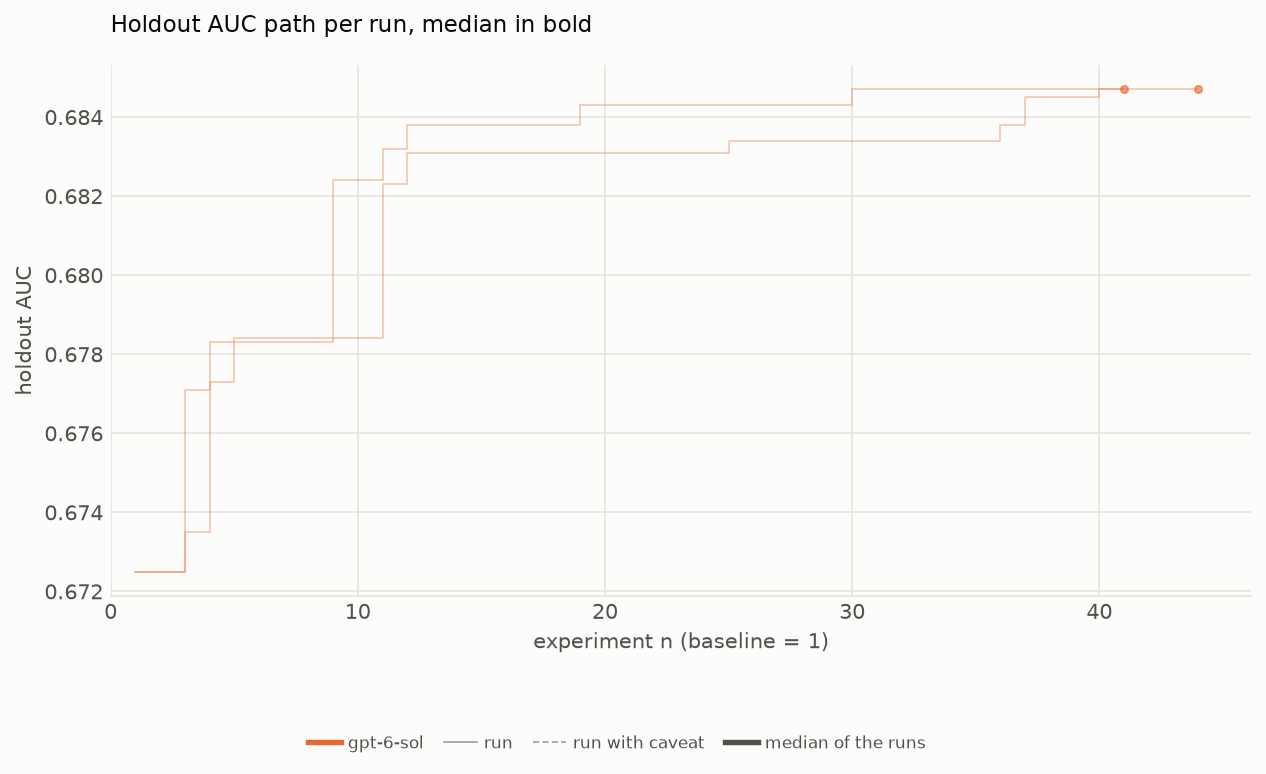
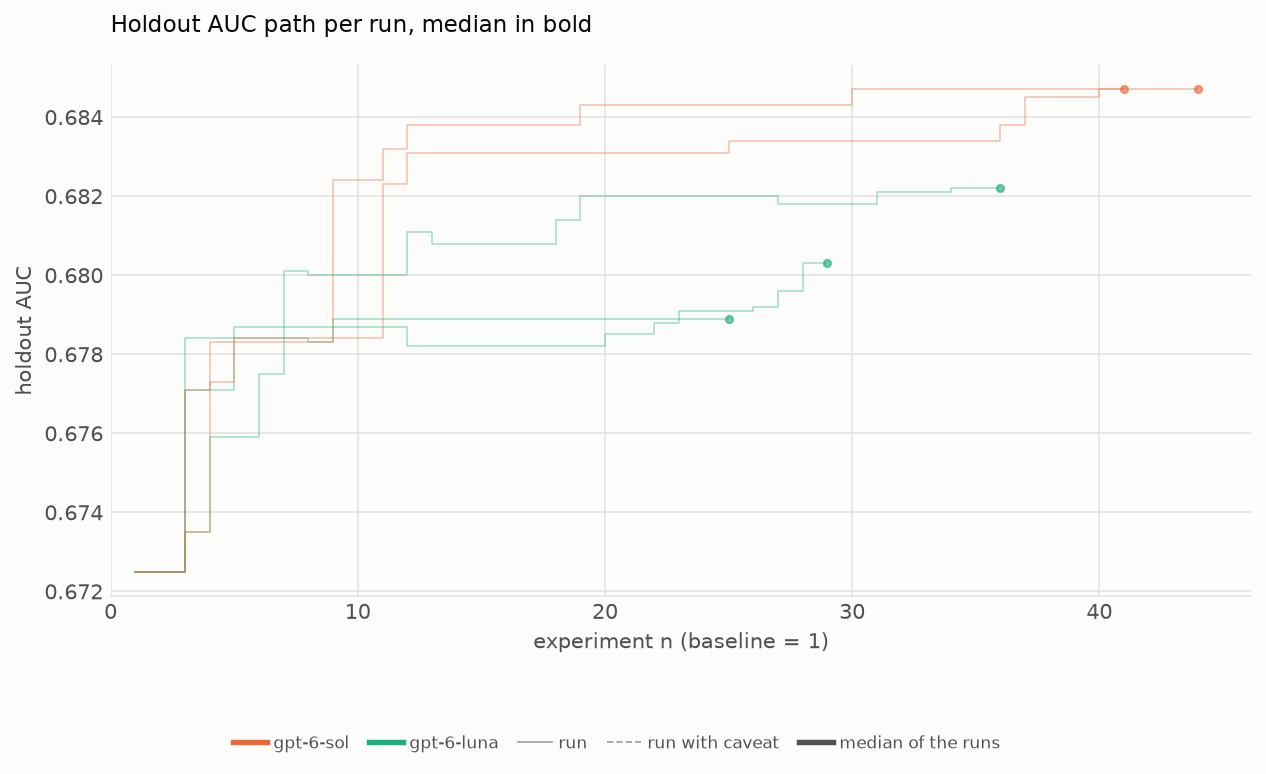
Summary with luna6_n20 runs 1-3
README results block and SUMMARY plots redrawn by /xgb-summary: gpt-6-luna
(3 valid runs, group in progress) next to gpt-6-sol from test1; first
head-to-head plot.

diff --git a/README.md b/README.md
@@ -23,13 +23,14 @@ Each run's folder has the agent's `results.tsv` and `research-log.md`, the `trai
 ## Results so far
 
 <!-- xgb-summary: start (the block up to the end marker is rewritten by /xgb-summary) -->
-2 valid runs per model, all with codex-cli 0.160.0 at effort max, a 24 GB container memory cap and minimal3 at `5fb023a`. Holdout AUC of each run's best model (by eval AUC), over the valid runs, including those with a caveat; the starter `train.py` scores 0.6725:
+All runs with codex-cli 0.160.0 at effort max, a 24 GB container memory cap and minimal3 at `5fb023a`. Holdout AUC of each run's best model (by eval AUC), over the valid runs, including those with a caveat; the starter `train.py` scores 0.6725:
 
 | model | groups | valid runs | excluded | holdout AUC mean | sd | min | median | max |
 |---|---|---|---|---|---|---|---|---|
 | gpt-6-sol | [test1](run-multi/test1/results_summary.md) | 2 | 1 | 0.6847 | 0.0000 | 0.6847 | 0.6847 | 0.6847 |
+| gpt-6-luna | [luna6_n20](run-multi/luna6_n20/results_summary.md) | 3 | 0 | 0.6805 | 0.0017 | 0.6789 | 0.6803 | 0.6822 |
 
-No run carries a caveat. One run was excluded: test1-2, after three turns in a row ended with OpenAI's "Selected model is at capacity" error. No group is in progress, and all valid runs have the same settings.
+No run carries a caveat. One run was excluded: test1-2, after three turns in a row ended with OpenAI's "Selected model is at capacity" error. Group luna6_n20 is in progress, with 3 runs reviewed so far. luna6_n20-1 is valid with a `train_py_review` flag, a false match explained in its `run.md`. All valid runs have the same settings.
 
 ![Holdout AUC per run](run-multi/SUMMARY/holdout_auc_beeswarm.png)
 <!-- xgb-summary: end -->
